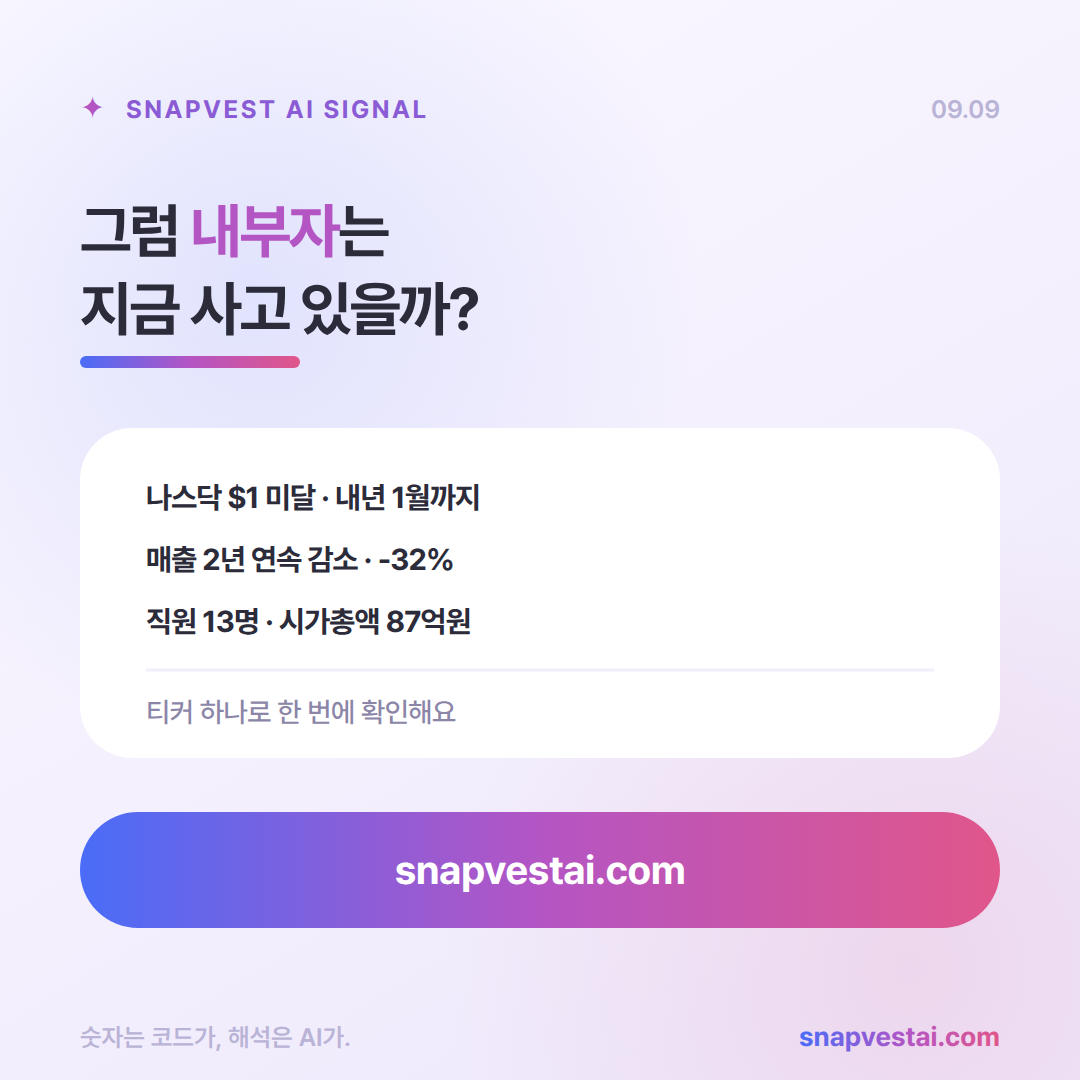
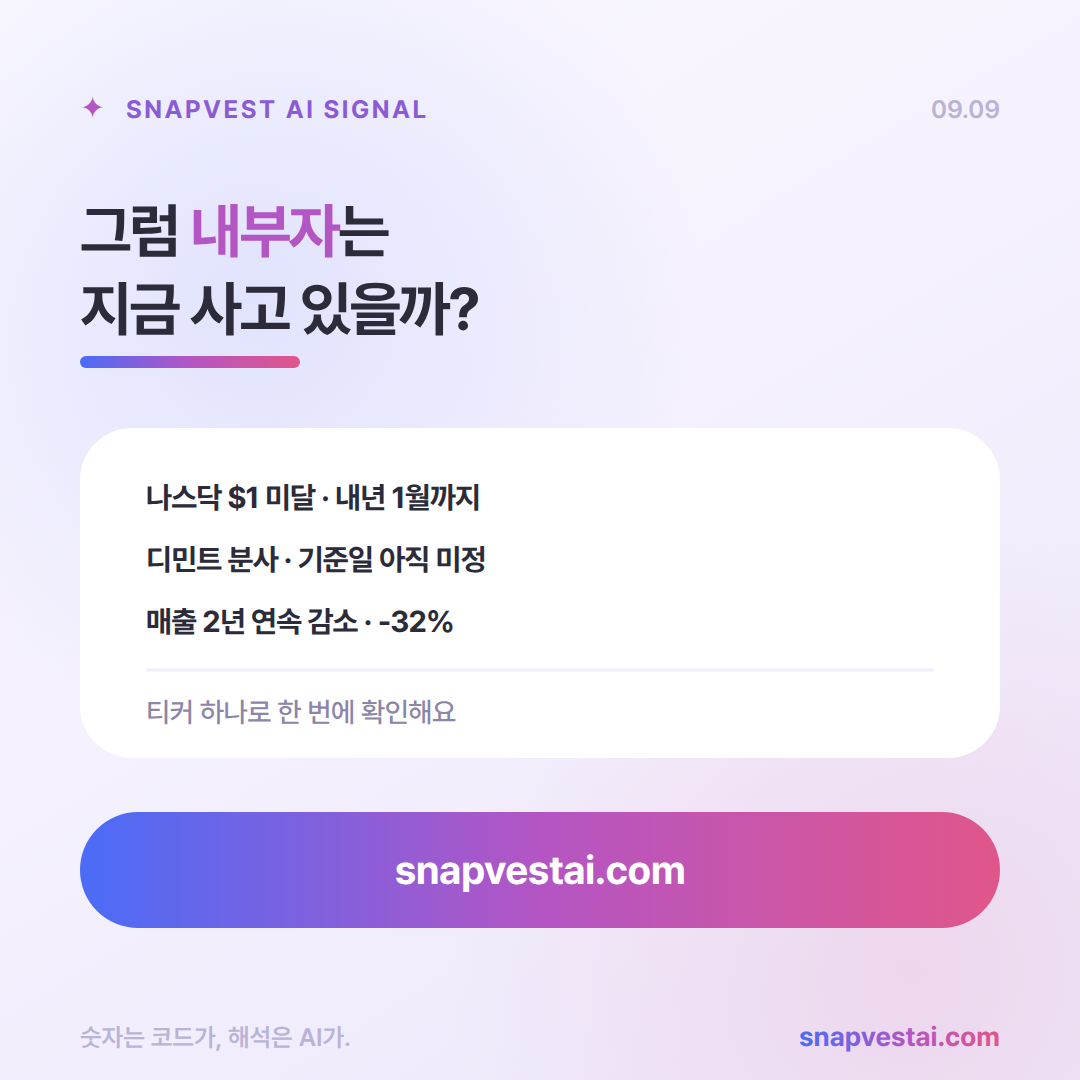
cardnews(OLB): 3번 카드를 '거래량' 에서 실제 사유로 바꿈
'거래량이 늘어서 올랐다' 는 동어반복이었다. 거래량이 왜 늘었는지를
찾아 넣었다.

  비트코인 한 달 +22% (8/7 $64,834 -> 9/8 $79,074), 8월 랠리 +24.9%
  스팟 ETF 7일 순유입 약 $10.3억, 9/3 하루 $7.3억 (1/14 이후 최대)
  9/8 은 비트코인이 밀렸는데 채굴주만 오른 날 — 사이퍼 +8%, 마라 +6%
  OLB 는 채굴 자회사 DMint 를 분사 중이고 주주에게 그 주식을 배당한다
  (Form S-1 333-292762, 기준일은 아직 발표 전)

9/8 에 가격이 +4.59% 밖에 안 오른 것도 이 그림과 맞는다 — 재료가 회사
것이 아니라 업종 것이면 먼저 물량부터 오간다.

정황이지 확정된 인과가 아니다. OLB 를 지목한 기사는 못 찾았고 SOURCES 에
그렇게 적었다. 5번 카드 문구도 'DMint 분사 · 기준일 아직 미정' 으로 바꿔
분사 지연을 리스크 자리에 남겼다.

Claude-Session: https://claude.ai/code/session_01RMiKh4knUhoRQtbEt8tjeA

Changed region(s): [[0.1222, 0.4889, 0.4583, 0.6111]]

diff --git a/cardnews/SOURCES.md b/cardnews/SOURCES.md
@@ -25,13 +25,61 @@
 "이미 만료" 로 쓰면 사실이 아니다. 다만 **여전히 미달 상태**이고,
 $0.36 은 $1 요건의 3분의 1 수준이다.
 
-## ★ 급등에 대응하는 공시가 없다 — 검색으로도 확인
+## ★★ 왜 올랐나 — 회사 공시는 없다. 업종이 움직였다
 
-9월 8일·9일자 회사 발표를 찾을 수 없었다. 검색으로 잡히는 가장 최근
-회사 뉴스는 **8월 17일 2분기 실적**(순손실 50.3% 축소)과
-**8월 14일 나스닥 유예 연장**이다. 다음 실적 발표는 11월 12일 예정.
+9월 8일·9일자 **회사 발표는 없다.** 검색으로 잡히는 가장 최근 회사 뉴스는
+**8월 17일 2분기 실적**(순손실 50.3% 축소)과 **8월 14일 나스닥 유예 연장**이다.
+다음 실적 발표는 11월 12일 예정.
 
-**자료의 결론(공시가 아니라 수급)이 맞다.**
+**그런데 "거래량이 늘어서 올랐다" 는 답이 아니다. 거래량이 왜 늘었나.**
+찾아보니 그날 시장에 실제로 있었던 일이 있다.
+
+### 1. 비트코인이 한 달 만에 22% 올랐다
+
+```
+8월  7일   BTC 약 $64,834
+9월  8일   BTC 약 $79,074        → 약 +22%
+8월 한 달 랠리                    +24.9%
+스팟 비트코인 ETF 7일 순유입      약 $10.3억
+  중 9월 3일 하루                 $7.3억  ← 1월 14일 이후 최대
+9월 크립토 시총                   +17.6% → $2.70조 (올해 최대 ETF 유입 월)
+```
+
+### 2. 9월 8일은 채굴주가 따로 오른 날이다
+
+**그날 비트코인은 오히려 밀렸는데 채굴주만 올랐다.**
+
+```
+사이퍼 마이닝(CIFR)   +8%
+마라 홀딩스(MARA)     +6%
+```
+
+### 3. OLB 에는 채굴이 붙어 있다 — 그것도 분사 직전 구조로
+
+▪ 자회사 **DMint** — 테네시주 셀머 비트코인 채굴 시설
+▪ **분사(스핀오프) 진행 중.** DMint 는 Form S-1 (파일번호 333-292762)로
+  공모를 준비하고 있다
+▪ **OLB 주주는 보유 비율대로 DMint 주식을 배당 형태로 받는다.**
+  DTC 를 통해 증권계좌로 바로 들어오고 주주가 따로 할 일은 없다
+▪ ⚠ **기준일(record date)은 아직 발표 전이다**
+
+### 인과 고리
+
+```
+비트코인 한 달 +22% · ETF 유입 최대
+  → 9/8 미국 채굴주 일제 랠리 (사이퍼 +8% · 마라 +6%)
+  → 아직 안 오른 초소형 채굴 노출 종목으로 자금 이동
+  → OLB 는 채굴 자회사를 곧 분사하고 그 주식을 주주에게 나눠 준다
+  → 시총 87억원짜리에 9/8 하루 5,918만 주 (발행주식의 3.4배)
+  → 9/9 프리마켓 +31.77%
+```
+
+**회사가 한 일은 없다. 업종이 움직였고 OLB 에 그 업종이 걸려 있었을 뿐이다.**
+9/8 에 가격이 +4.59% 밖에 안 오른 것도 이 그림과 맞는다 — 재료가 회사 것이
+아니라 업종 것이면 먼저 물량부터 오간다.
+
+⚠ **이건 정황이지 확정된 인과가 아니다.** OLB 를 지목한 리포트나 기사를
+찾지 못했다. 글귀에서 `~때문에 올랐다` 로 단정하지 않는다.
 
 ## ★★ 표기 종가로는 봉을 못 그린다 — 등락률로 역산했다
 
